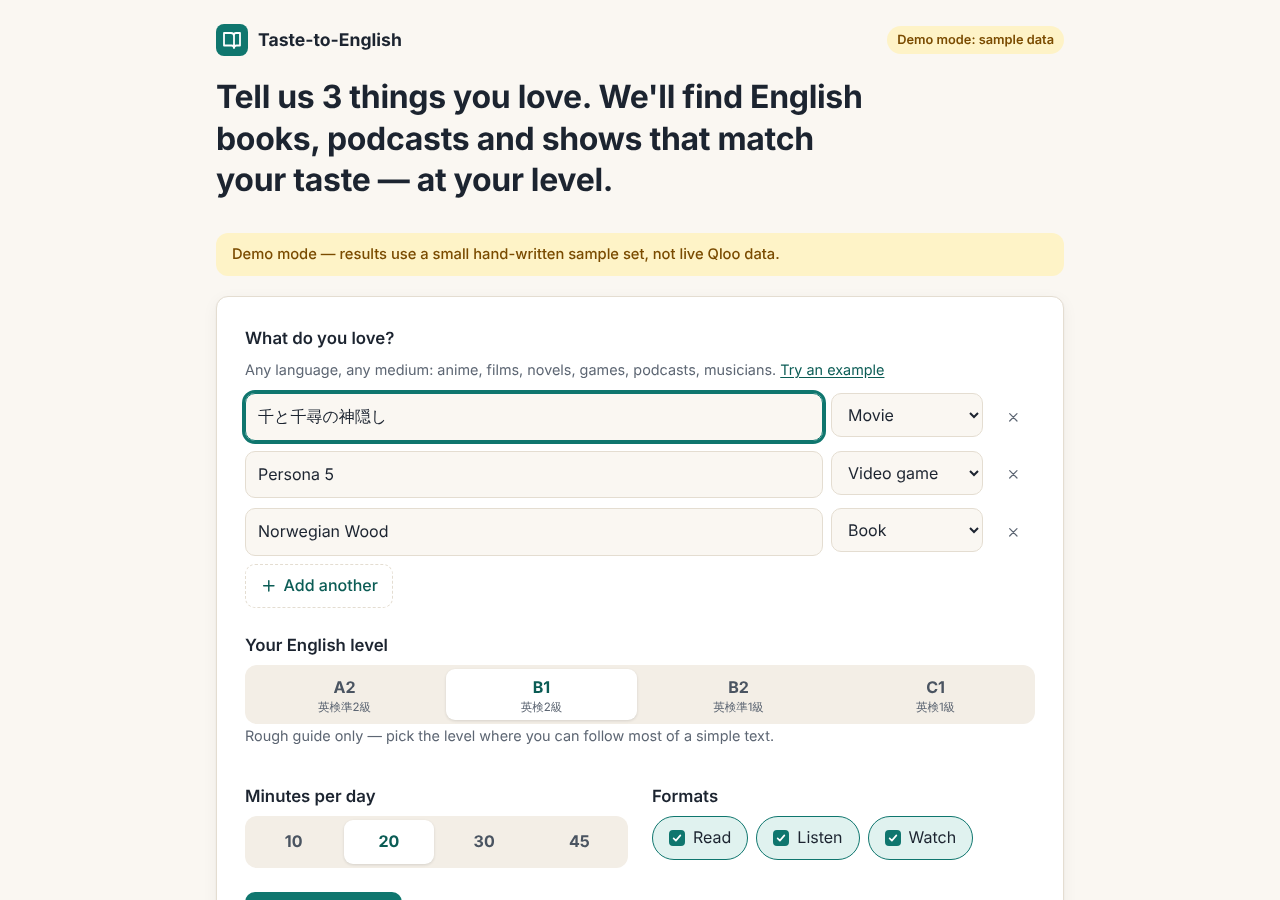
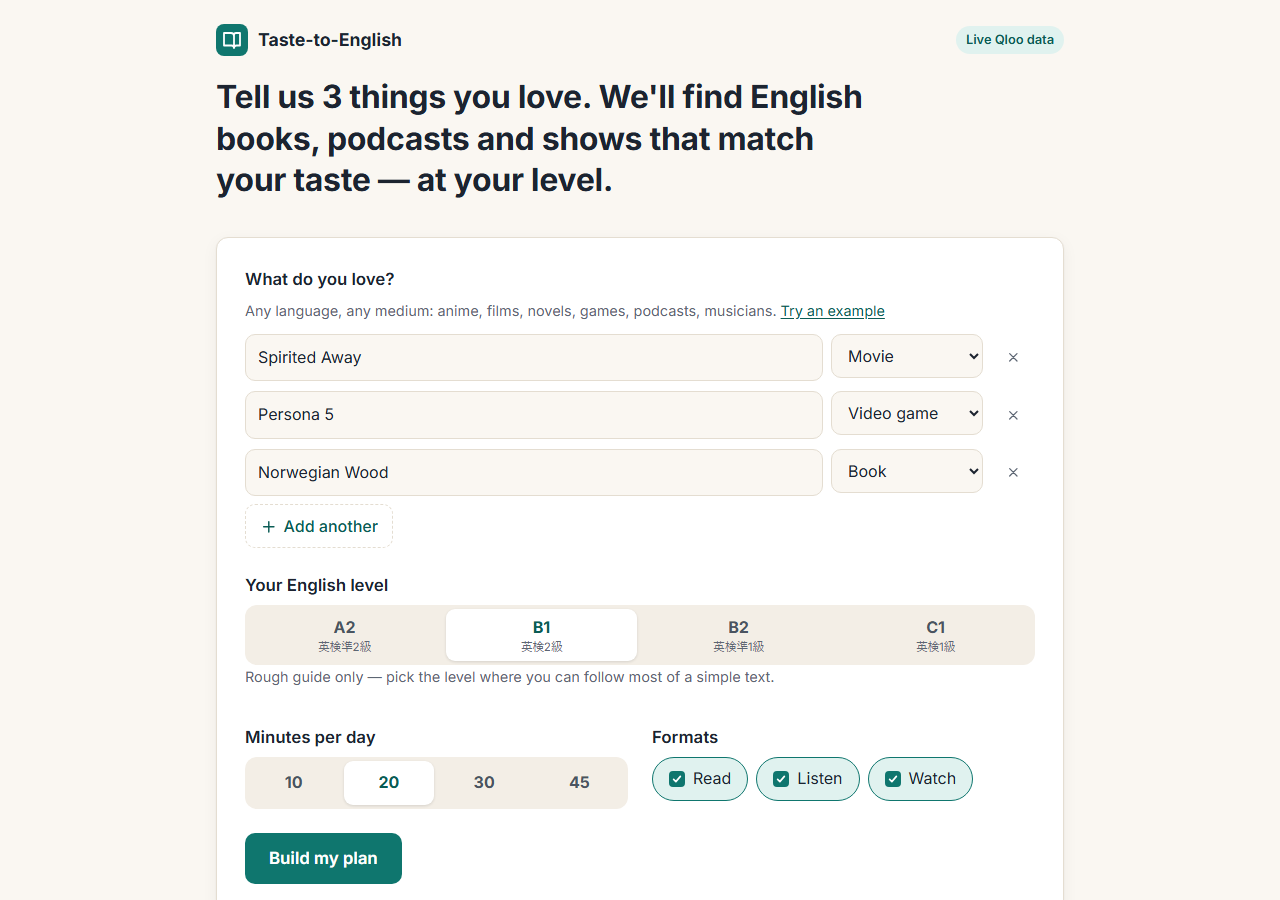
デモを live 化: Qloo キーを Worker に登録、スクリーンショット 01-06 を live データで撮り直し、README・Devpost 文の URL を更新

diff --git a/README.md b/README.md
@@ -2,7 +2,7 @@
 
 **Turn the Japanese anime, games and novels you love into an English reading, listening and watching plan at your level, built on Qloo's cross-domain taste graph.**
 
-Live demo: https://taste-to-english.shotaro-takakura.workers.dev (sample data until the Qloo hackathon key is connected; add `?demo=1` to force sample mode)
+Live demo: https://taste-to-english.shotaro-takakura.workers.dev (live Qloo data; add `?demo=1` to force the hand-written sample mode)
 
 Built for the Qloo Agentic Hackathon. No key handy? Open the demo with `?demo=1` to run it on a small hand-written sample set (clearly labelled).
 
@@ -242,7 +242,7 @@ Configuration (`wrangler.jsonc` plus secrets):
 - [`docs/qloo-integration-decision.md`](docs/qloo-integration-decision.md): why the Worker calls the Qloo API directly and how to switch to a gateway or the harness
 - [`docs/next-steps.md`](docs/next-steps.md): deploy, add the key, verify
 - [`docs/license-check.md`](docs/license-check.md): licenses of everything we ship or call
-- [`docs/screenshots/`](docs/screenshots/): screenshots (sample data, offline AI fallback)
+- [`docs/screenshots/`](docs/screenshots/): screenshots (01–06 live Qloo data and Workers AI; 07–11 sample data)
 
 ## License
 

diff --git a/docs/screenshots/README.md b/docs/screenshots/README.md
@@ -1,6 +1,6 @@
-# Screenshots (draft)
+# Screenshots
 
-Taken 2026-10-22 with headless Chromium against the **offline demo** (`npm run dev:offline`): the hand-written sample set instead of live Qloo data, and the rule-based fallback instead of Workers AI. That is why the badges say "sample data" / "rule-based fallback" and most picks are rated B1. Retake with live Qloo data and Workers AI on the deployed app before submitting (see `docs/next-steps.md`).
+`01`–`06` were retaken on 2026-10-24 with headless Chromium against the deployed app in **live mode** (Qloo hackathon key + Workers AI), using the built-in example (Spirited Away, Persona 5, Norwegian Wood). The rest were taken 2026-10-22 with headless Chromium against the **offline demo** (`npm run dev:offline`): the hand-written sample set instead of live Qloo data, and the rule-based fallback instead of Workers AI. That is why the badges say "sample data" / "rule-based fallback" and most picks are rated B1. They can be retaken the same way if needed.
 
 | File | Shows |
 |---|---|

diff --git a/docs/submission/devpost.md b/docs/submission/devpost.md
@@ -6,7 +6,7 @@ Paste each section into the matching Devpost field. Replace `<DEMO_URL>` and the
 
 **Tagline (≤ 200 chars):** Turn the anime, games and novels you love into an English reading, listening and watching plan at your level — an agent built on Qloo's cross-domain taste graph.
 
-**Links:** Demo `<DEMO_URL>` (add `?demo=1` for the sample-data demo) · Code https://github.com/Class-now/qloo-reading-planner (MIT)
+**Links:** Demo https://taste-to-english.shotaro-takakura.workers.dev (add `?demo=1` for the sample-data demo) · Code https://github.com/Class-now/qloo-reading-planner (MIT)
 
 **Built with:** qloo-api, cloudflare-workers, workers-ai, llama, typescript, javascript, html, css
 
